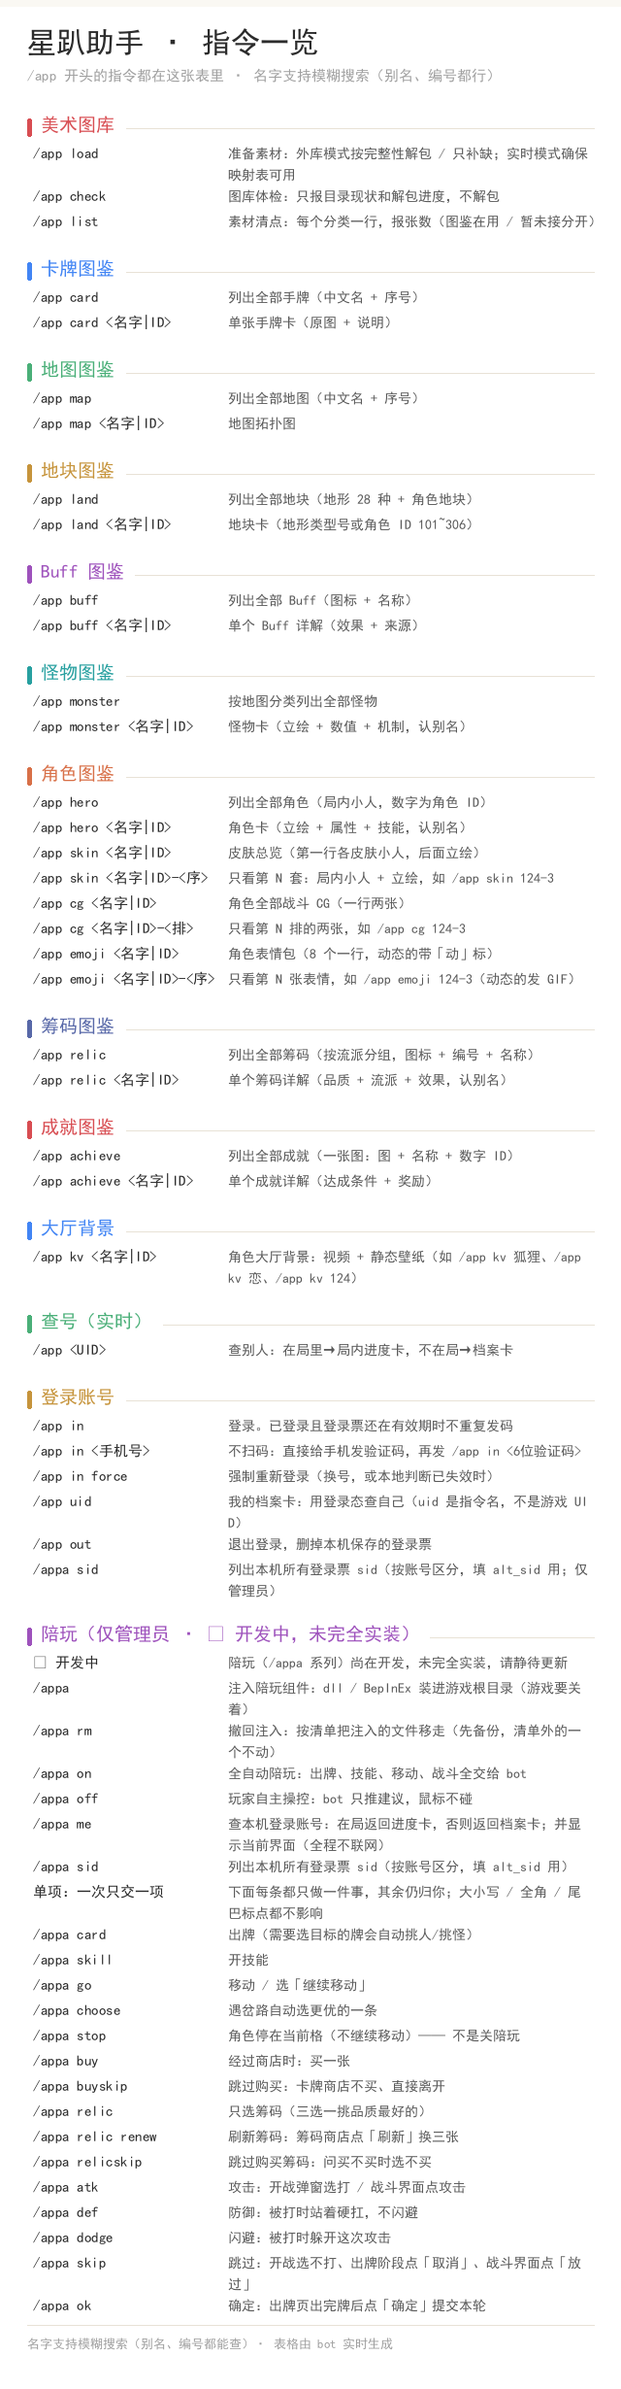
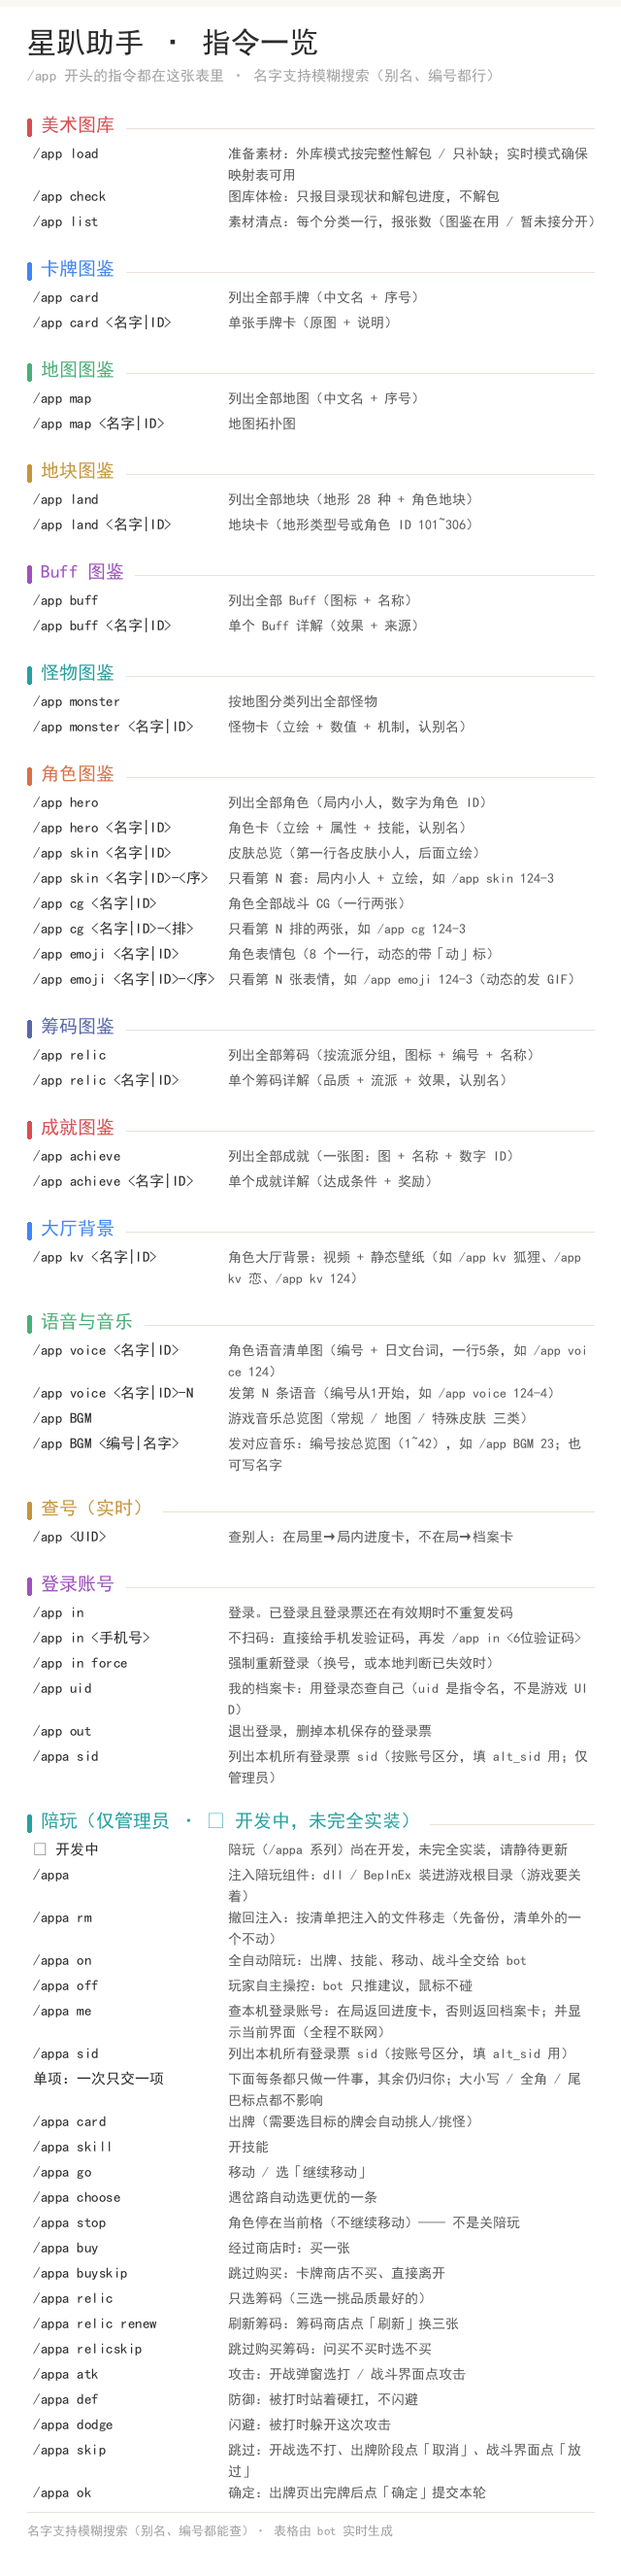
docs(2.6.0): 简介改为「查号 + 全鉴赏 + 游戏助手」，补解包模式与联系方式
- 简介：查游戏账号与对局进度；全鉴赏卡牌/怪物/角色/地块/地图/筹码/成就/角色语音/游戏音乐/大厅背景
- 明确支持全量解包与实时解包两种素材模式
- 去掉未实装的「威胁排序/寻路/手牌建议」表述（归入陪玩引擎开发中）
- 新增联系方式：1543648046@qq.com（README 段落 + metadata.help）
- README 功能表补 voice / BGM 指令；help.png 重渲
- 2.6.0 定版（去掉「未发布」）

diff --git a/CHANGELOG.md b/CHANGELOG.md
@@ -1,6 +1,6 @@
 # 更新日志
 
-## [2.6.0] - 未发布
+## [2.6.0] - 2026-11-23
 
 ### 新增
 
